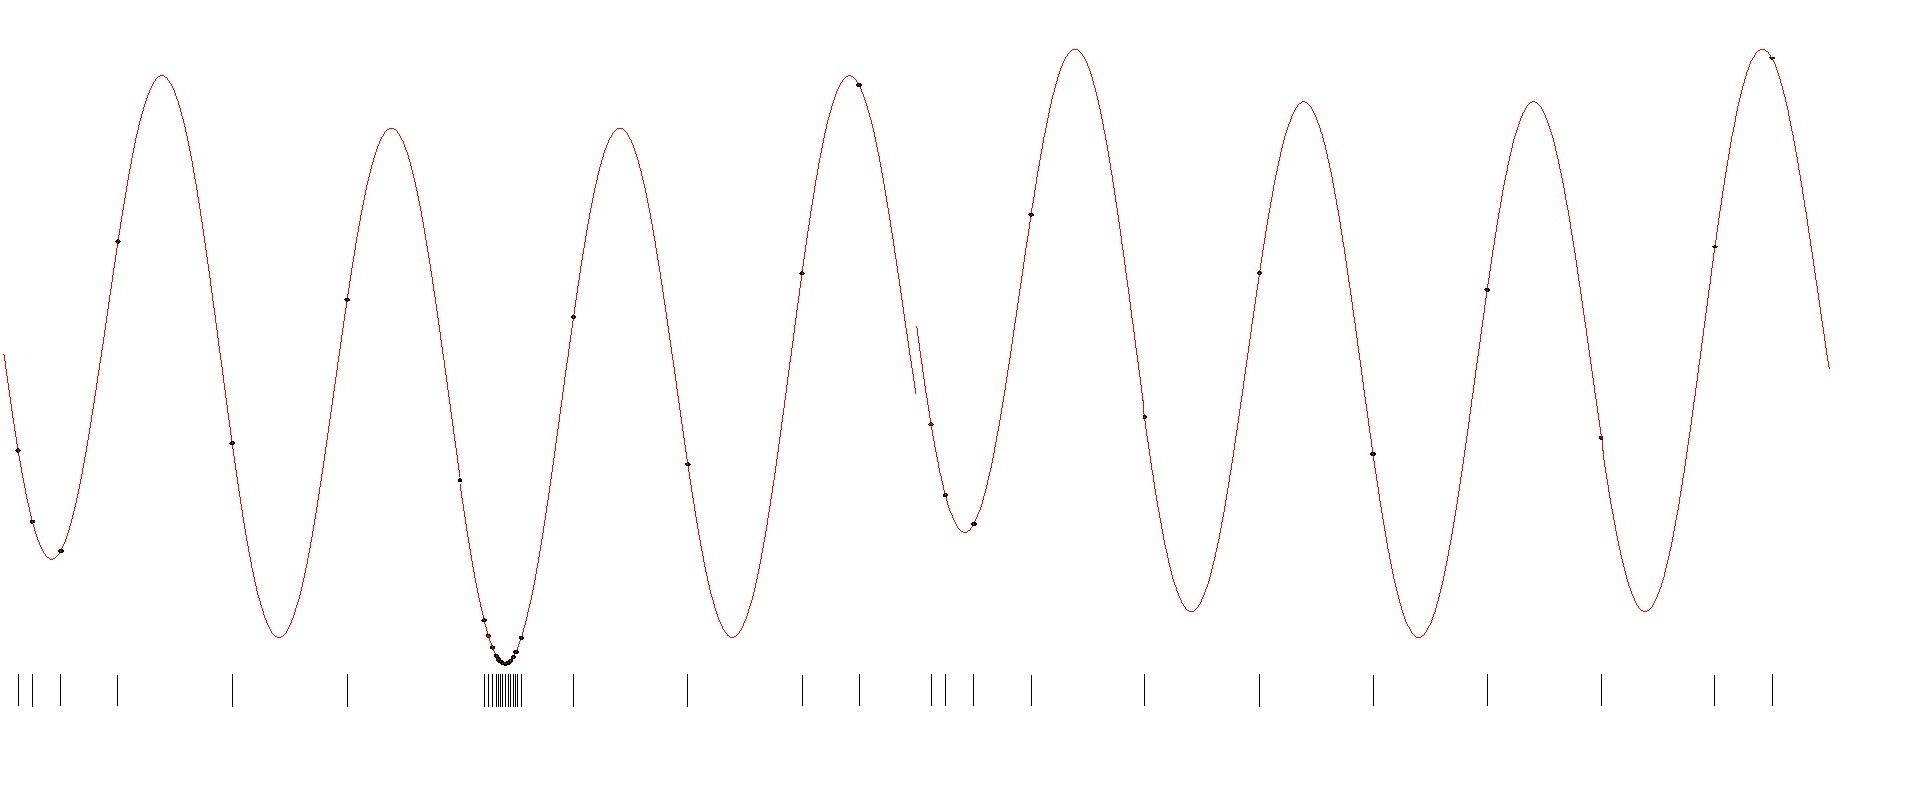
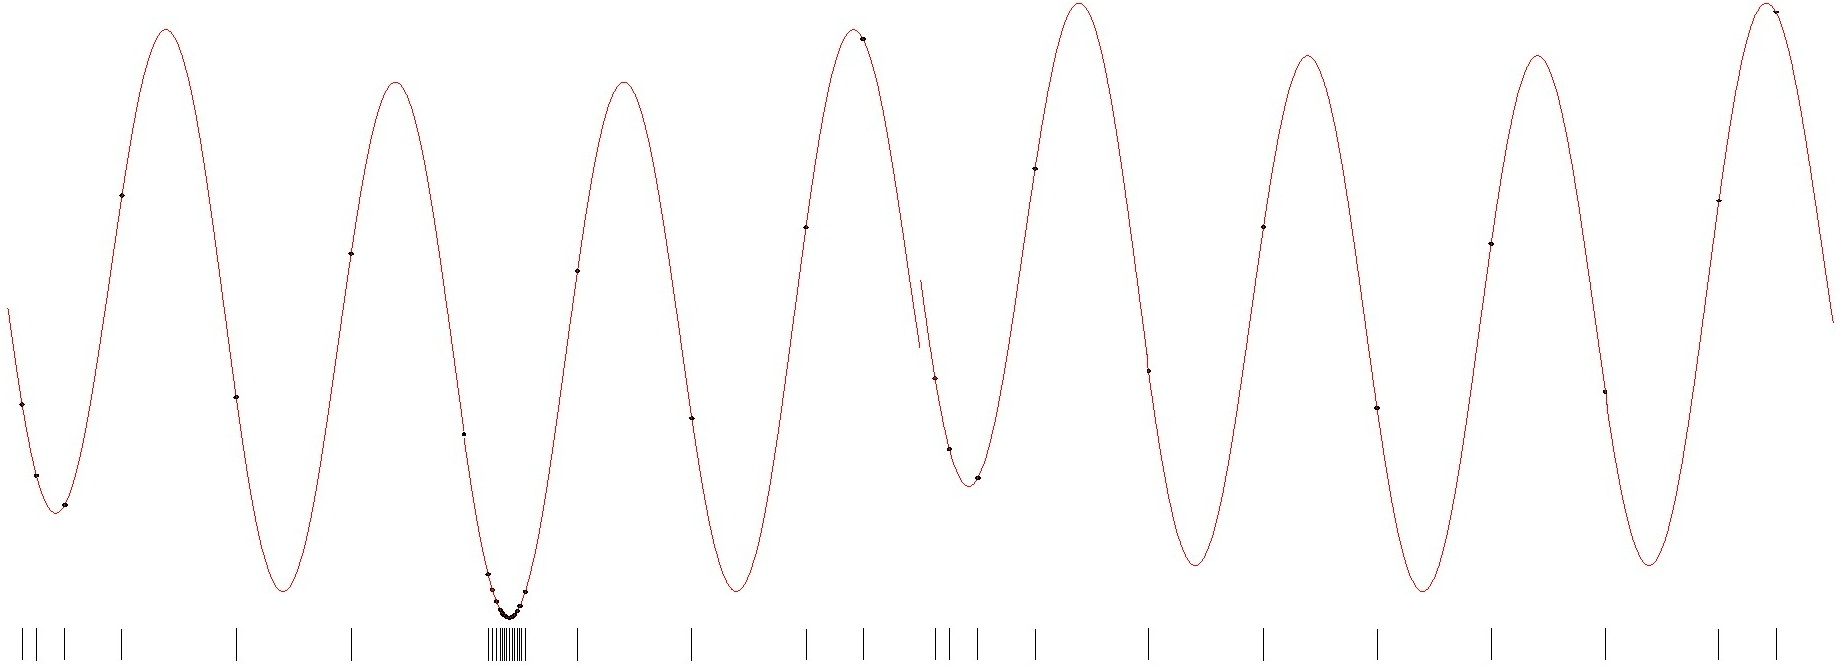
After translation

diff --git a/2018/LION_Mixed-Integer/LION2018.tex b/2018/LION_Mixed-Integer/LION2018.tex
@@ -12,15 +12,12 @@
 %\usepackage{amssymb}
 %\usepackage{epstopdf}
 %\usepackage{epsfig}
-\usepackage[T2A]{fontenc}
-\usepackage[utf8x]{inputenc}
-\usepackage[russian,english]{babel}
 
 \begin{document}
 
 \mainmatter 
 
-\title{A Global Optimization Algorithm for Non-Convex Constrained Mixed-Integer Problems}
+\title{A Global Optimization Algorithm for Non-Convex Mixed-Integer Problems}
 \author{Victor Gergel \and Konstantin Barkalov \and Ilya Lebedev %\Letter 
 \\
 \email{konstantin.barkalov@itmm.unn.ru}}
@@ -32,20 +29,42 @@ Lobachevsky State University of Nizhni Novgorod, Nizhni Novgorod, Russia
 \maketitle
 
 \begin{abstract}
-\Russian
-В работе рассматриваются mixed-integer global optimization problems. Предложен новый детерминированный алгоритм для решения задач данного класса, основанный на information-statistical approach к решению задач непрерывной глобальной оптимизации. Проведено сравнение данного алгоритма с известными аналогами, показывающее эффективность разработанного подхода. Устойчивая работа алгоритма подтверждена также решением серии из нескольких сотен mixed-integer global optimization problems. 
+In the present paper, the mixed-integer global optimization problems are considered. A novel 
+deterministic algorithm for solving the problems of this class based on the information-statistical 
+approach to solving the continuous global optimization problems has been proposed. The 
+comparison of this algorithm with well known analogs demonstrating the efficiency of the 
+developed approach has been conducted. The stable operation of the algorithm was confirmed 
+also by solving a series of several hundred mixed-integer global optimization problems. 
 
 \keywords global optimization, non-convex constraints, mixed-integer problems.
 
 \end{abstract}
 
 \section{Introduction}\label{sec:intro}
-\Russian
-В работе рассматриваются global optimization problems и методы их решения. Задачи глобальной оптимизации обладают значительной вычислительной трудоемкостью, т.к. глобальный оптимум является интегральной характеристикой решаемой задачи и требует исследования всей области поиска. Как результат, поиск глобального оптимума сводится к построению некоторого покрытия (вообще говоря, неравномерного) в области параметров. Особый интерес представляют задачи, в которых часть параметров может принимать лишь целочисленные значения (mixed-integer global optimization problems), т.к. для них сложнее построить оценки оптимума по сравнению с непрерывными задачами.
 
-Методам решения mixed-integer problems посвящена обширная литература (см., например, обзоры \cite{Burer,Boukouvala}). Известные детерминированные методы решения задач данного класса основаны, как правило, на подходах Branch-and-Bound or Branch-and-Reduce. Также известен ряд метаэвристических и генетических алгоритмов, так или иначе основанных на идеях случайного поиска.
+In the present paper, the global optimization problems and the method of solving these ones are 
+considered. The global optimization problems are the computation-costly ones since the global 
+optimum is an integral characteristic of the problem being solved and requires the investigation 
+of the whole search domain. 
+%As a result, the search of the global optimum is reduced to the construction of a coverage (in general, a nonuniform one) of the space of parameters. 
+The problems, in which some parameters can take the inter values only (mixed-integer global 
+optimization problems) are of special interest because for these ones it is more difficult to build 
+the estimates of the optimum as compared to the continuous problems.
 
-В данной работе нами предложен новый детерминированный метод решения mixed-integer problems, основанный на information-statistical approach к решению задач глобальной оптимизации \cite{Strongin2000,Strongin2013}. Текст статьи, отражающей предварительные результаты исследования, построен следующим образом. Вначале рассмотрен подход к решению задач с непрерывными параметрами, затем предложено его обобщение для mixed-integer problems. В финальном разделе приведены результаты сравнения предложенного метода с известными аналогами.
+A lot of publication have been devoted to the methods of solving the mixed-integer problems 
+(see, for example, the reviews~\cite{Burer,Boukouvala}). The well known deterministic 
+methods of solving the problems of this class are based, as a rule, on the Branch-and-Bound 
+approach or on the Branch-and-Reduce one. Also, a number of the metaheuristic and genetic 
+algorithms are known based 
+ones, anyway, based on the ideas of random search.
+
+In the present study, we proposed a novel deterministic method for solving the mixed-integer 
+problems based on the information-statistical approach to solving the global optimization 
+problems \cite{Strongin2000,Strongin2013}. The paper text reflecting the results of preliminary 
+studies is composed as follows. First, an approach to solving the problems with continuous 
+parameters has been considered, then its generalization for the mixed-integer problems was 
+proposed. In the final section, the results of comparison of the proposed method with the well 
+known analogs are presented.
 
 \section{Global search algorithm and dimension reduction}
 
@@ -56,10 +75,9 @@ D=\left\{y\in R^N: a_i\leq y_i \leq b_i, 1\leq i \leq N\right\}.\nonumber
 \end{gather}
 Suppose, that the objective function $\varphi(y)$ (henceforth denoted by $g_{m+1}(y)$) and
 the left-hand sides $g_i(y), \; 1\leq i \leq m$, of the constraints satisfy the Lipschitz condition
-\[ 
-\left|g_i(y')-g_i (y'')\right| \leq L_i \left\|y'-y'' \right\|, \; y',y''\in D, \; 1\leq i \leq m+1, 
-\]
-with constants $L_i, \; 1 \leq i \leq m+1$, respectively,  and may be multiextremal.
+%\[ \left|g_i(y')-g_i (y'')\right| \leq L_i \left\|y'-y'' \right\|, \; y',y''\in D, \; 1\leq i \leq m+1, \]
+%with constants $L_i, \; 1 \leq i \leq m+1$, respectively,  
+and may be multiextremal.
 
 Using a continuous single-valued mapping $y(x)$  (Peano-type space-filling curve) of the interval $[0,1]$ onto $D$, a multidimensional problem (\ref{problem}) can be reduced to a one-dimensional problem
 \begin{equation}\label{problem1}
@@ -67,56 +85,79 @@ Using a continuous single-valued mapping $y(x)$  (Peano-type space-filling curve
 \end{equation}
 The reduction of dimensionality matches the multidimensional problem with a Lipschitzian objective function and constraints with a one-dimensional problem where the respective functions satisfy the uniform H\"older condition (see \cite{Strongin2000}).
 
-%Проверить
-An efficient global search algorithm (GSA) for solving constrained optimization problem (\ref{problem1}) was developed at University of Nizhni Novgorod. A detailed description of the algorithm and the corresponding convergence theory are presented in \cite{Strongin2000}.
+An efficient global search algorithm (GSA) for solving the constrained optimization problem 
+(\ref{problem1}) has been developed at University of Nizhni Novgorod. A detailed description 
+of the algorithm and the corresponding convergence theory are presented in 
+\cite{Strongin2000}.
 
 \section{Global search algorithm for mixed-integer problems}
 
-\Russian
-Рассмотрим теперь способ адаптации GSA для решения mixed-integer global optimization problems 
-
+Now, let us consider a method of adaptation of GSA for solving the mixed-integer global 
+optimization problems 
 \begin{gather}\label{problem_i}
 \min{\left\{ g_{m+1}(y):y\in D, \; g_i(y)\leq 0, \; 1 \leq i \leq m\right\}},\\
 D=\left\{a_i\leq y_i \leq b_i, \; 1\leq i \leq N, \; y_j \in Z, \; j \in J, \; y_i \in R, \; i \notin J \right\}.\nonumber
 \end{gather}
 
-На основе задачи (\ref{problem_i}) сформируем множество задач 
+Let us formulate a set of problems based on the problem (\ref{problem_i})
 \begin{gather}\label{problem_is}
 \min{\left\{ g_{m+1}^s(y):y\in D^s, \; g_i^s(y)\leq 0, \; 1 \leq i \leq m\right\}},\\
-D^s=\left\{ a_i\leq y_i \leq b_i, \;  y_i \in R, \; i \notin J \right\}, \; s\in\{1,...,S\},\nonumber 
+D^s=\left\{ a_i\leq y_i \leq b_i, \;  y_i \in R, \; i \notin J \right\}, \; s\in\{1,...,S\}.\nonumber 
 \end{gather}
-каждая из которых соответствует исходной задаче (\ref{problem_i}) с фиксированным набором целочисленных параметров. Число задач $S$ будет соответствовать числу возможных комбинаций целочисленных параметров.
+Each of these problems corresponds to the initial problem (\ref{problem_i}) with fixed set of 
+integer parameters. The number of problems $S$ will correspond to the number of possible 
+combinations of the integer parameters.
 
-Используя схему редукции размерности с помощью развертки $y(x)$ на основе множества задач (\ref{problem_is}) можно составить единую задачу
+Using the dimensionality reduction scheme utilizing the evolvent $y(x)$ 
+%based on the set of problems (\ref{problem_is}),
+one can compose a united problem 
 \begin{equation}\label{problem_is1}
-\min \left\{g_{m+1}^s(y(x)): x \in [0,S], \; g_i^s(y^s(x)) \leq 0, \; 1 \leq i \leq m\right\},
+\min \left\{g_{m+1}^s(y^s(x)): x \in [0,S], \; g_i^s(y^s(x)) \leq 0, \; 1 \leq i \leq m\right\},
 \end{equation}
-где отображение $y^s(x)$  формируется на основе исходной развертки $y(x)$ следующим образом
+where the mapping $y^s(x)$ is formed on the basis of initial evolvent $y(x)$ as follows
 \[
 y^s(x)=y(x-s), \; x\in[s-1,s],\; s\in\{1,...,S\}.
 \]
-Функции $g_i^s(y^s(x))$ могут иметь разрывы в точках $s\in \{1,...,S-1\}$, поэтому данные точки рассматриваются как выколотые, значение objective function and constraints в них не определено.
+The functions $g_i^s(y^s(x))$ can have the breaks at the points $s\in \{1,...,S-1\}$, therefore, 
+these points were considered as the punctured ones, the values of the objective function and 
+constraints at these points remain undefined.
 
-Для иллюстрации на Fig. \ref{fig:1}  изображены графики функций, соответствующих задаче с одним непрерывным и одним бинарным параметром.
+As an illustration, in Fig. \ref{fig:1} presents the plots of the functions corresponding to a 
+problem with one continuous parameter and one binary parameter.
 
 \begin{figure}[ht]
     \centering
-    \includegraphics[width=0.7\textwidth]{fig1.jpg}
+    \includegraphics[height=2.9cm,width=0.8\textwidth]{fig1.jpg}
     \caption{Mixed-integer global optimization problem}
     \label{fig:1}
 \end{figure}
 
-Применяя к решению задачи (\ref{problem_is1}) алгоритм глобального поиска, мы найдем решение задачи (\ref{problem_i}). При этом основная часть испытаний будет проведена в $s$-й подзадаче, решение которой соответствует решению исходной задачи (\ref{problem_i}). В остальных подзадачах будет проведена лишь незначительная часть испытаний, т.к. решения данных подзадач являются локально-оптимальными по отношению к решению $s$-й подзадачи. Сказанное подтверждается Fig. \ref{fig:1}, где штрихами обозначены точки испытаний, выполненных при решении данной задачи.
+Applying the global search algorithm to solving the problem (\ref{problem_is1}), we will find 
+the solution of the problem (\ref{problem_i}). In this case the major part of trials will conducted in 
+the $s$-th subproblem, the solving of which corresponds to the solving of the initial 
+problem (\ref{problem_i}). In the rest subproblems, a minor part of trials only will be performed 
+since the solutions of these subproblems are the locally optimal ones with respect to the solution 
+of the $s$-th subproblem. All the above is confirmed by Fig. \ref{fig:1}, where the 
+points of trials executed in the course of solving this problem are denoted by the dashes.
 
-Таким образом, мы сформировали Mixed-Integer Global Search Algorithm (MIGSA), основанный на сведении задачи MINLP путем к задаче NLP. Можно доказать, что условия сходимости данного алгоритма будут следовать из условий сходимости его прототипа (GSA).
+
+Thus,  we have constructed the \textit{Mixed-Integer Global Search Algorithm} (MIGSA) based on the  
+reduction of the MINLP to the NLP. 
+%It is possible to prove that the convergence conditions for this algorithm will follow from the convergence conditions of its prototype (GSA).
 
 \section{Results of experiments}
 
-\Russian
-Проведем сравнение предложенного метода MIGSA с genetic algorithm for solving mixed-integer optimization problems, реализованным в Matlab Global Optimization Toolbox. В Table \ref{tab:1} приведено число испытаний, потребовавшееся для решения известных тестовых mixed-integer problems данными методами. Для обоих методов была использована одинаковая точность поиска решения $10^{-2}$. Все вычислительные эксперименты были проведены на компьютере с процессором Intel Core i5-7300 2.5 GHz и 8 Gb RAM под управлением MS Windows 10. Результаты экспериментов показывают превосходство метода MIGSA как по числу итераций, так и по времени работы.
+Let us compare the proposed MIGSA method with a genetic algorithm for solving the mixed-
+integer optimization problems implemented in Matlab Global Optimization Toolbox. In Table 
+\ref{tab:1}, the numbers of trials required for solving the well-known test mixed-integer 
+problems by these methods are presented. For both methods, the same values of the accuracy of 
+the solution search $10^{-2}$ were used. All numerical experiments were conducted on a 
+computer with Intel Core i5-7300 2.5 GHz and 8 Gb RAM processor under MS Windows 10. The 
+results of experiments have demonstrated the advantage to the MIGSA method in the number 
+of iterations as well as in the execution time.
 
 \begin{table}
-	\caption{Сравнение эффективности методов MIGSA и GA}
+	\caption{Comparison of MIGSA and GA}
 	\label{tab:1}
 	\center
 	\begin{tabular}{cccccc}
@@ -135,9 +176,17 @@ y^s(x)=y(x-s), \; x\in[s-1,s],\; s\in\{1,...,S\}.
 	\end{tabular}
 \end{table}
 
-Для демонстрации надежности метода MIGSA нами были решены четыре серии по 100 многоэкстремальных mixed-integer problems, построенных на основе модифицированных классов задач Simple и Hard, сгенерированных генератором GKLS \cite{Gaviano}. 
-Данный генератор многоэкстремальных функций часто используется для исследования алгоритмов непрерывной оптимизации \cite{Paulavicius2014,SergeyevKvasov2015,Lebedev2015,Gergel2015}.
- В сгенерированных нами задачах было 5 целочисленных и 3 непрерывных параметра. Точность поиска решения равнялась $10^{-2}$ по координате. Все задачи из серии были успешно решены , при этом для решения задач на основе класса Simple потребовалось среднем 11988 trials, а для решения задач на основе класса Hard -- 24750 trials.
+In order to demonstrate the reliability of the MIGSA method, we have solved two series of 100 
+multiextremal mixed-integer problems each constructed on the basis of modified problems of 
+\textit{Simple} and \textit{Hard} classes generated by GKLS generator. %~\cite{Gaviano}. 
+This generator of multiextremal functions is often used for the investigations of the global optimization algorithms~ 
+\cite{Paulavicius2014,SergeyevKvasov2015,Lebedev2015,Gergel2015}.
+In the problems generated in our experiments, there were 5 integer parameters and 3 continuous 
+ones. The accuracy of the search %of the solution in the coordinates 
+was equal to $10^{-2}$. All  
+problems of the series have been solved successfully, at that, for solving the problems based on 
+the \textit{Simple} class 11988 trials in average were required whereas for solving the problems based 
+on the \textit{Hard} class 24750 trials were required.
 
 
 \textbf{Acknowledgments}. This study was supported by the Russian Science Foundation, project No 16-11-10150.
@@ -148,7 +197,7 @@ y^s(x)=y(x-s), \; x\in[s-1,s],\; s\in\{1,...,S\}.
 Burer, S., Letchford, A.N.: Non-convex mixed-integer nonlinear programming: A survey. Surveys in Operations Research and Management Science \textbf{17}, 97--106 (2012) 
 
 \bibitem{Boukouvala}
-Boukouvala, F., Misener, R., Floudas, C.A.: Global optimization advances in Mixed-Integer Nonlinear Programming, MINLP, and Constrained Derivative-Free Optimization, CDFO. European Journal of Operational Research \textbf{252}, 701--727 (2016) 
+Boukouvala, F., Misener, R., Floudas, C.A.: Global optimization advances in Mixed-Integer Nonlinear Programming, MINLP, and Constrained Derivative-Free Optimization, CDFO. European J. Oper. Res. \textbf{252}, 701--727 (2016) 
 
 \bibitem{Strongin2000}
 Strongin, R.G., Sergeyev, Y.D.: Global Optimization with Non-Convex Constraints. Sequential and Parallel Algorithms. Kluwer Academic Publishers, Dordrecht (2000) %; DOI: 10.1007/978-1-4615-4677-1
@@ -162,8 +211,7 @@ Floudas, C.A., Pardalos, P.M.:  Handbook of Test Problems in Local and Global Op
 \bibitem{Deep}
 Deep, K., Singh, K. P., Kansal, M.L., Mohan, C.: A real coded genetic algorithm for solving integer and mixed integer optimization problems. Appl. Math. Comput. \textbf{212}(2), 505--518 (2009)
 
-\bibitem{Gaviano}
-Gaviano, M., Kvasov, D.E, Lera, D., and Sergeyev, Ya.D.: Software for generation of classes of test functions with known local and global minima for global optimization. ACM Transactions on Mathematical Software \textbf{29}(4), 469--480 (2003)
+%\bibitem{Gaviano} Gaviano, M., Kvasov, D.E, Lera, D., and Sergeyev, Ya.D.: Software for generation of classes of test functions with known local and global minima for global optimization. ACM Transactions on Mathematical Software \textbf{29}(4), 469--480 (2003)
 
 \bibitem{Paulavicius2014} 
 Paulavi\v{c}ius, R., Sergeyev, Y., Kvasov, D., \v{Z}ilinskas, J.: Globally-biased DISIMPL algorithm for expensive global optimization. J. Glob. Optim. \textbf{59}(2-3), 545--567 (2014)
